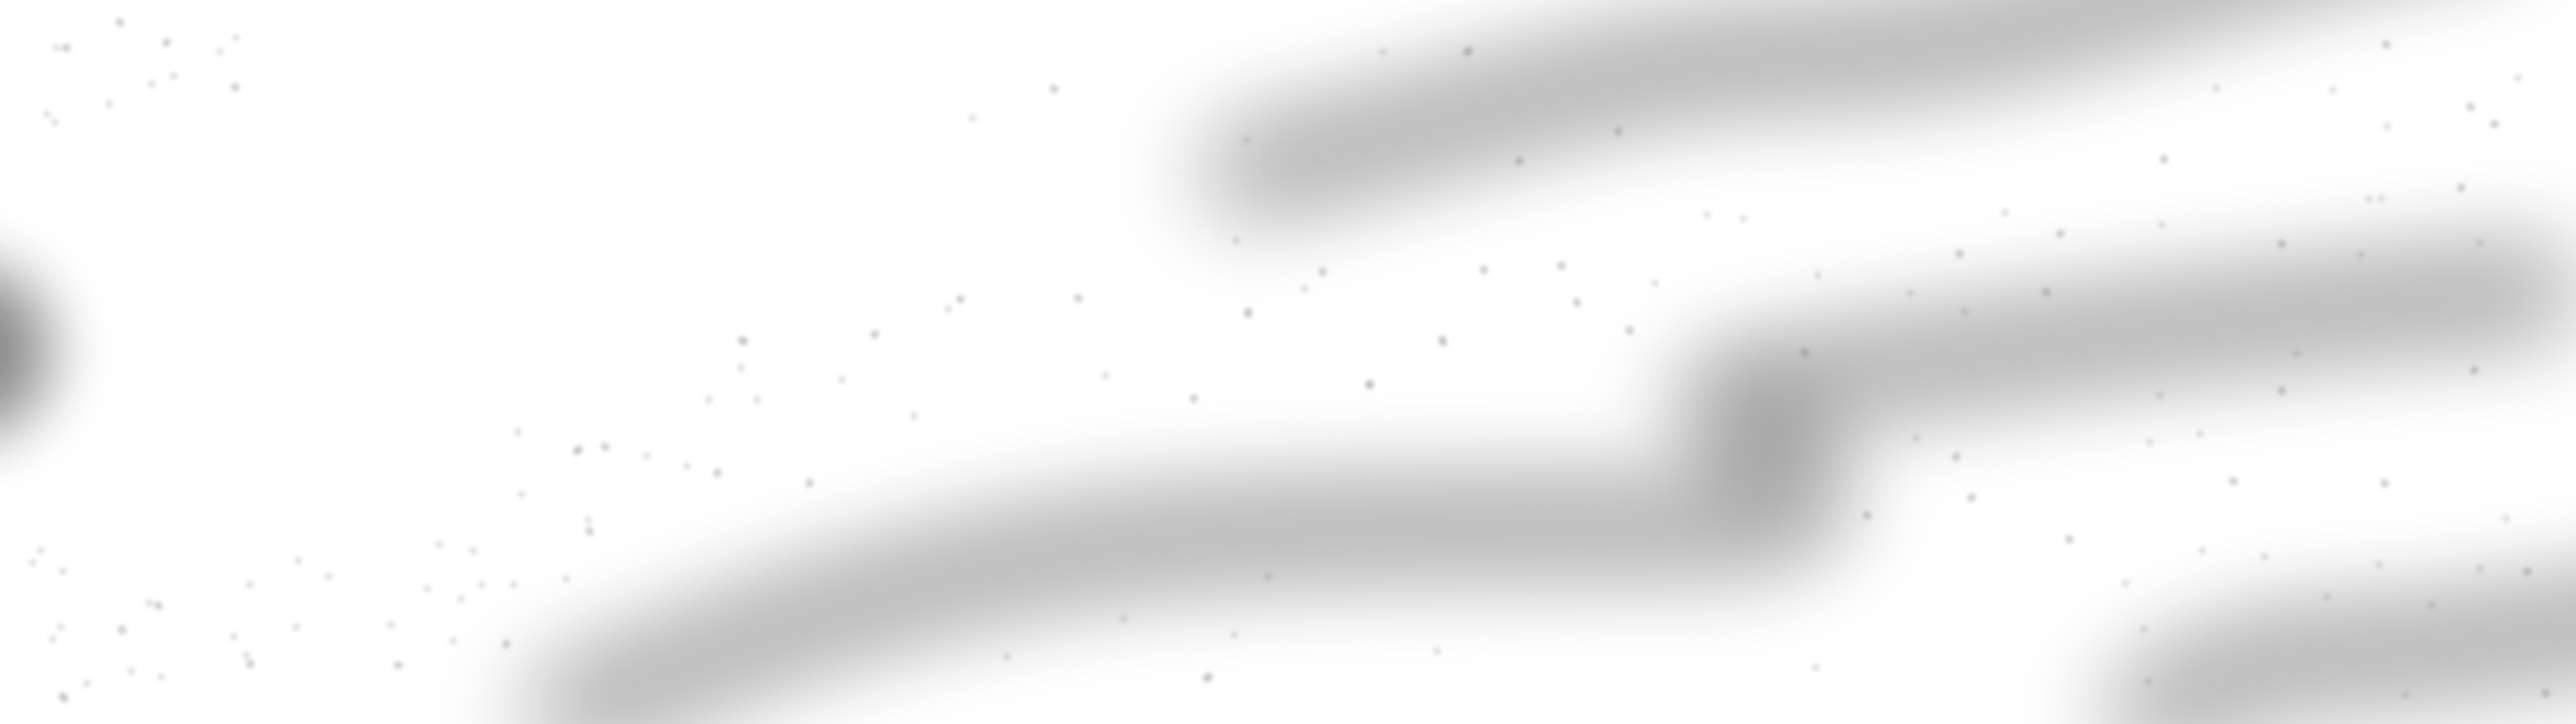
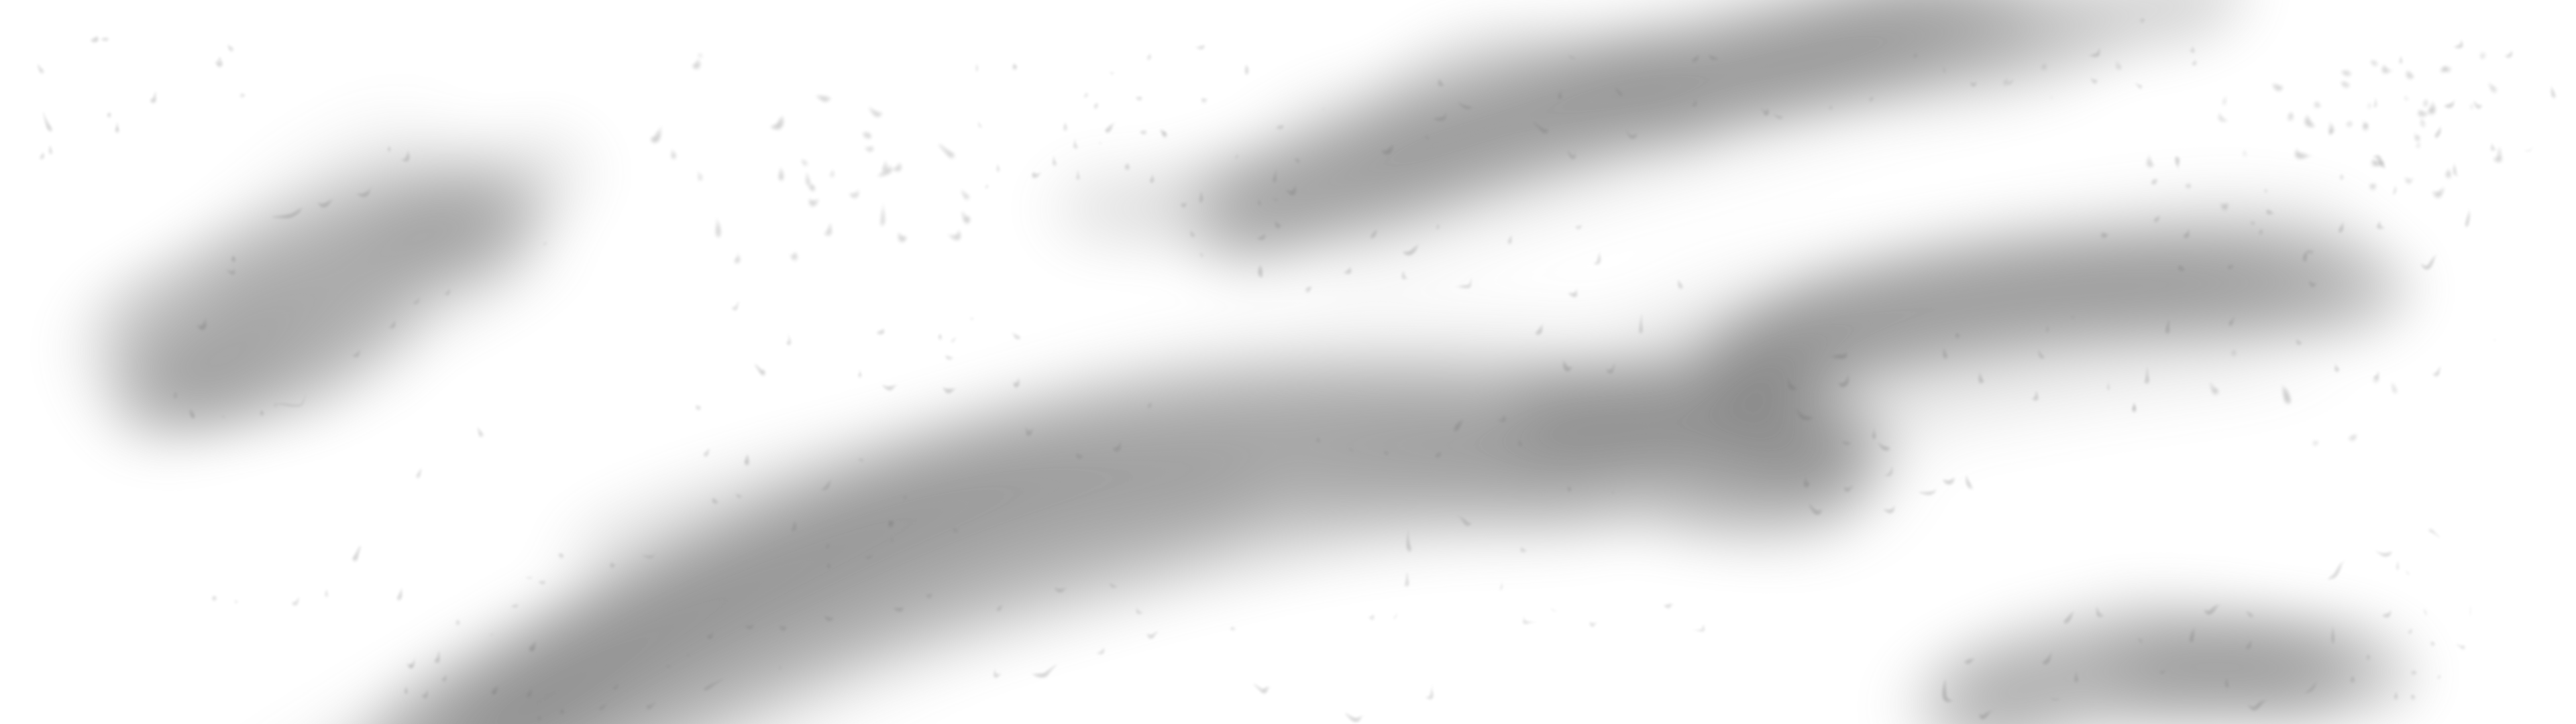
Sound fixes + more level bg.

diff --git a/src/main_state.cpp b/src/main_state.cpp
@@ -69,7 +69,7 @@ MainState::MainState(Game* game)
 
       _map(this),
 
-      _levelCount   (4),
+      _levelCount   (5),
       _currentLevel (-1),
 
       _shipPartCount(6),
@@ -178,6 +178,7 @@ void MainState::initialize() {
 	_levelColors.push_back(Vector4(112, 46, 188, 255) / 255.f);
 	_levelColors.push_back(Vector4(27, 20, 133, 255) / 255.f);
 	_levelColors.push_back(Vector4(100, 215, 238, 255) / 255.f);
+	_levelColors.push_back(Vector4(0, 255, 0, 255) / 255.f);
 	_levelColors.push_back(Vector4(255, 183, 75, 255) / 255.f);
 	lairAssert(_levelColors.size() == _levelCount);
 
@@ -370,7 +371,7 @@ Vector2 MainState::partExpectedPosition(unsigned shape, unsigned part) const {
 
 
 float MainState::warningScrollDist() const {
-	return _shipHSpeed / 100 * _blockSize;
+	return _shipHSpeed / 150 * _blockSize;
 }
 
 
@@ -531,6 +532,10 @@ void MainState::startGame(int level) {
 		_map.setBg(1, "lvl3_l3.png");
 		break;
 	case 3:
+		_map.setBg(0, "lvl4_l2.png");
+		_map.setBg(1, "lvl4_l3.png");
+		break;
+	case 4:
 		_map.setBg(0, "lvl6_l2.png");
 		_map.setBg(1, "lvl6_l3.png");
 		break;
@@ -539,12 +544,13 @@ void MainState::startGame(int level) {
 	_levelColor  = _levelColors[_currentLevel];
 	_levelColor2 = Vector4(0, 1, 1, .5);
 	_beamColor   = _levelColor2;
-	_laserColor  = Vector4(1, 0, 0, .4);
+	_laserColor  = Vector4(0, 1, 0, .7);
 	_textColor   = Vector4(0, 1, 0, 1);
 
 	_shipSoundSample = 0;
 	_lastPointSound  = -ONE_SEC;
-	_warningTileEndIndex = 0;
+	_warningTileX    = 0;
+	_warningMap.assign(21, false);
 
 	_ship = loadEntity("ship.json");
 //	dbgLogger.error(_ship.name());
@@ -603,6 +609,10 @@ void MainState::startGame(int level) {
 //	audio()->playSound(assets()->getAsset("sound.ogg"), 2);
 //	Mix_RegisterEffect(MIX_CHANNEL_POST, shipSoundCb, NULL, this);
 
+	_charSprite.place(Vector3(-550, 0, 0));
+	_dialogBg.place(Vector3(1920 - 96, -450, 0));
+	_dialogText.place(Vector3(0, 0, 0));
+	_prevFrameTime = _loop.tickTime();
 	playAnimation("intro");
 }
 
@@ -627,6 +637,7 @@ void MainState::updateTick() {
 	double tickDur = double(_loop.tickDuration()) / double(ONE_SEC);
 
 	if(_pause) {
+		_entities.updateWorldTransform();
 		return;
 	}
 
@@ -745,17 +756,17 @@ void MainState::updateTick() {
 	shipPosition()[1] += vspeed;
 
 	// Warning sound
-	int warningTileY = (_scrollPos + SCREEN_HEIGHT + warningScrollDist()) / _blockSize;
-	int warningTileEnd = _map.beginIndex(warningTileY);
-	_warningMap.resize(21, false);
+	int warningTileX = (_scrollPos + SCREEN_WIDTH + warningScrollDist()) / _blockSize;
+	int warningTileBegin = _map.beginIndex(std::max(0, _warningTileX-1));
+	int warningTileEnd   = _map.beginIndex(warningTileX);
 	for(int y = 1; y < 21; ++y) {
-		bool hasWall = _map.hasWallAtYInRange(y, _warningTileEndIndex, warningTileEnd);
+		bool hasWall = _map.hasWallAtYInRange(y, warningTileBegin, warningTileEnd);
 		if(hasWall && !_warningMap[y]) {
 			audio()->playSound(_warningSound, 0, CHANN_WARNING);
 		}
 		_warningMap[y] = hasWall;
 	}
-	_warningTileEndIndex = warningTileEnd;
+	_warningTileX = std::max(warningTileX, _warningTileX);
 
 	_prevScrollPos = _scrollPos;
 	_entities.updateWorldTransform();

diff --git a/src/main_state.h b/src/main_state.h
@@ -196,7 +196,7 @@ protected:
 	AssetWP     _shipSound;
 	int         _shipSoundSample;
 	int64       _lastPointSound;
-	int         _warningTileEndIndex;
+	int         _warningTileX;
 	std::vector<bool> _warningMap;
 
 	std::vector<bool>    _partAlive;
